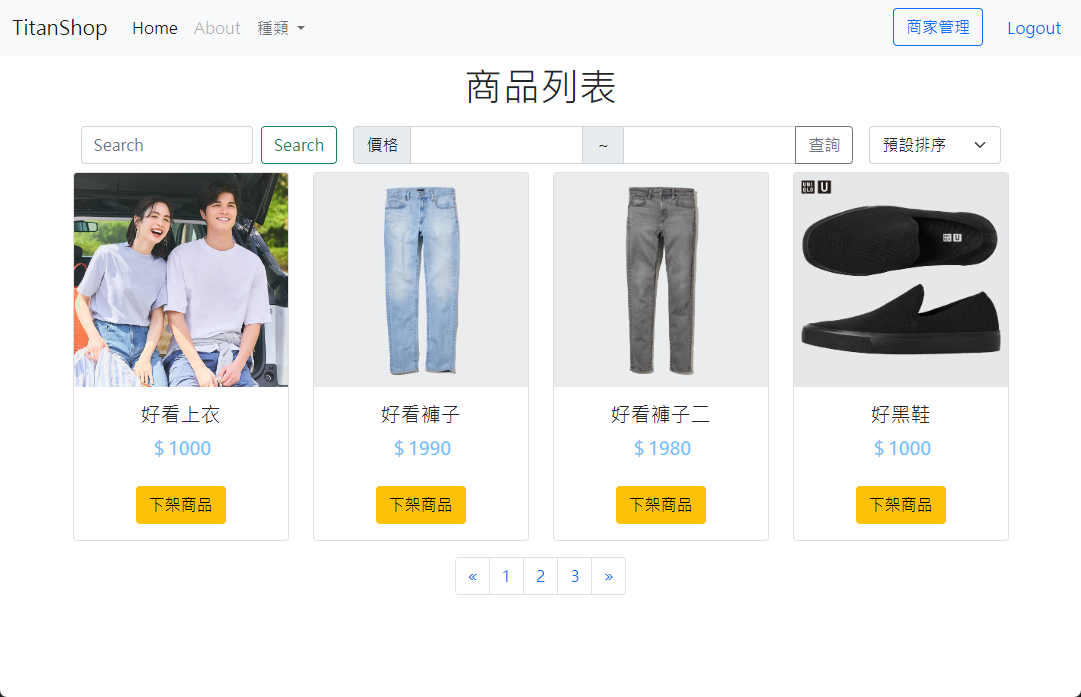
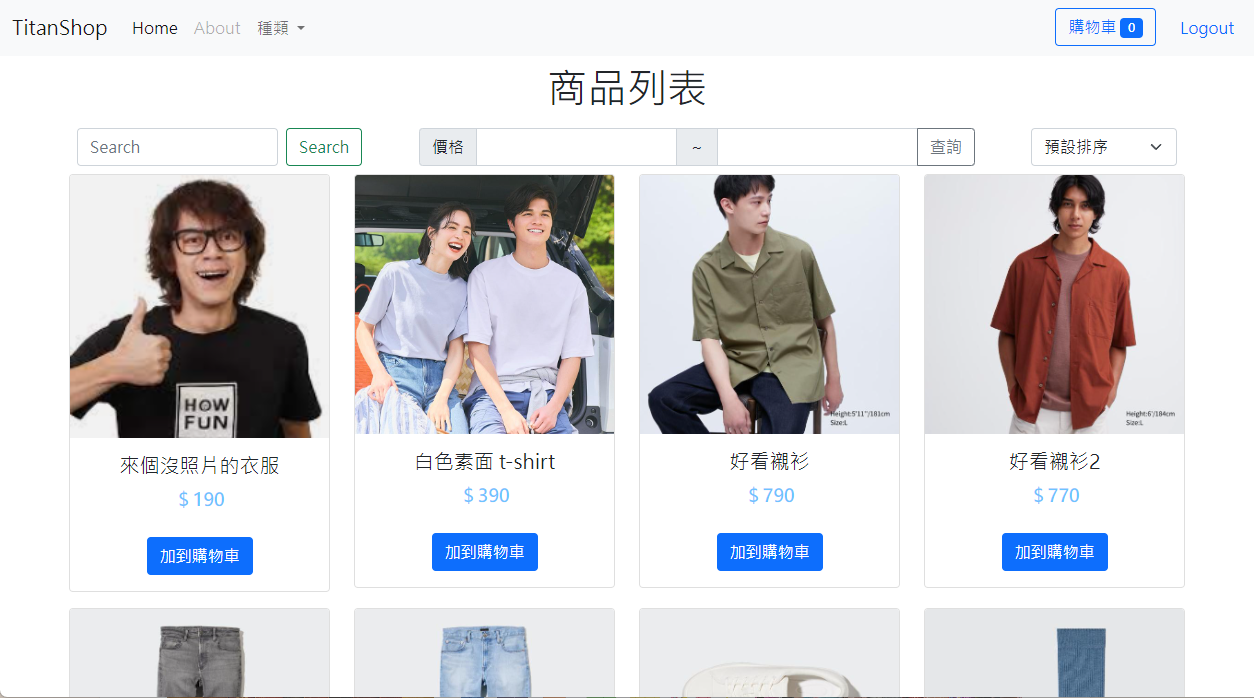
update readme

diff --git a/README.md b/README.md
@@ -7,7 +7,7 @@
 ## Project Preview
 
 ![image](./public/screenshot-home.png)
-
+![image](./public/screenshot-product.png)
 ---
 
 ## About The Project
@@ -19,11 +19,13 @@
 2. 每個商品頁面都有詳細的描述、價格和庫存訊息，讓使用者可以快了解商品。
 3. 使用者可以選擇將商品加入購物車，並隨時查看購物車內的商品數量和總金額。
 4. 使用者可以在購物清單中對商品數量進行調整，並在同個頁面中送出訂單。
+![image](./public/screenshot-cart.png)
 
 管理者
 1. 管理者可以在網站主頁下架商品。
 2. 管理頁面可以進行銷售額、銷售量、庫存數量的排序。
 3. 頁面中也能新增及編輯商品，或調整上、下架及移除商品。
+![image](./public/screenshot-seller.png)
 
 為了實現這些功能，前端部分使用了Vue 3作為主要框架，Bootstrap 5用於設計元件和排版，使網站在不同設備上都能具有良好的響應式設計。
 後端部分使用了Express.js作為 Web API 框架，處理來自前端的請求並與MySQL數據庫存取資料。
@@ -42,6 +44,9 @@
 - CSS
 - Bootstrap
 
+### Deploy with
+- Render
+
 ---
 ## Getting Started
 
@@ -57,7 +62,7 @@
 
 2. 在 git bash 或 PowerShell 中移動到該資料夾並載入組件:
 
-   `npm install`
+   `cd titan-shop-frontend` `npm install`
 
 3-1-1. 安裝結束後，將專案進行打包:
 
